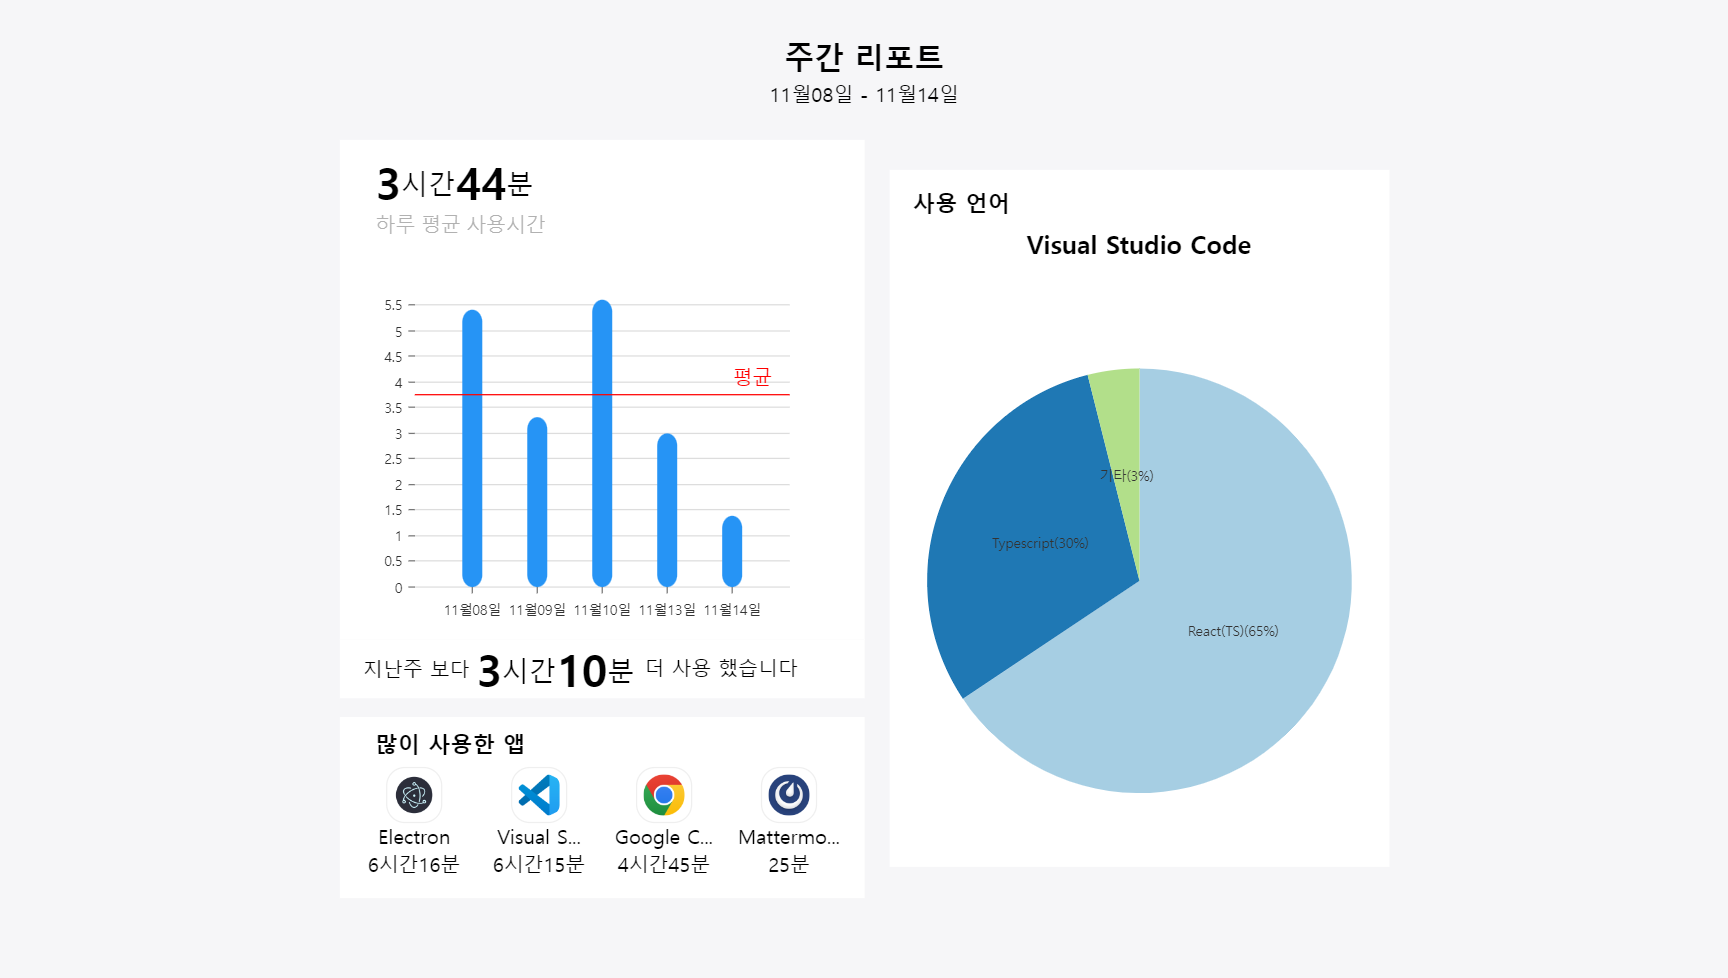
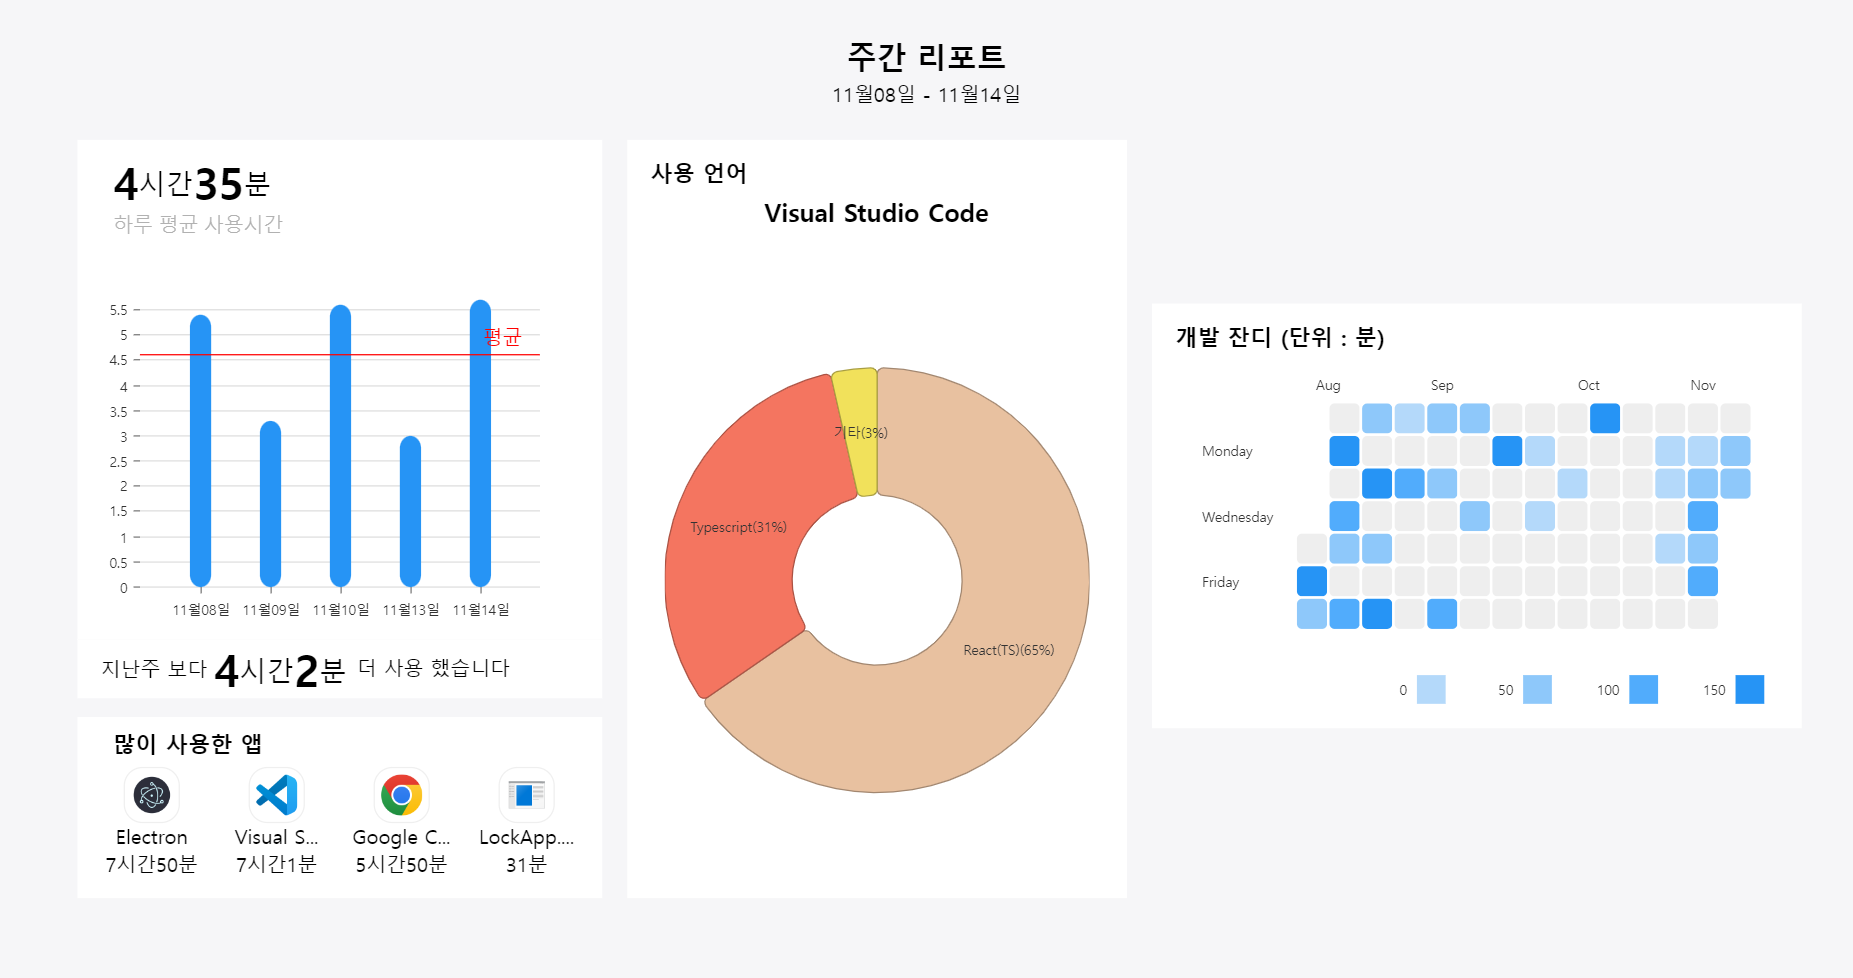
Feat : report
Former-commit-id: 218b25f972a8bf351b4d3708e82db2217bcbef42

diff --git a/electron/src/renderer/pages/CreatedChart.tsx b/electron/src/renderer/pages/CreatedChart.tsx
@@ -4,6 +4,7 @@ import { toPng } from 'html-to-image';
 import BarChart from '../components/jobtime/BarChart';
 import { ipcRenderer } from 'electron';
 import { ResponsiveBar } from '@nivo/bar';
+import { ResponsiveTimeRange } from '@nivo/calendar';
 import * as S from '../components/report/Report.style';
 import RecentApplication from '../components/jobtime/RecentApplication';
 import PieChart from '../components/jobtime/PieChart';
@@ -12,6 +13,16 @@ type Data = {
   day: number;
   time: number;
 };
+
+type DataOfDev = {
+  day: number;
+  active_time: number;
+};
+
+interface ModifiedData {
+  day: string;
+  value: number;
+}
 
 function CreatedChart() {
   const { state } = useLocation();
@@ -29,6 +40,33 @@ function CreatedChart() {
 
   const result: Array<Data> = state.weeklyJobs;
   const lastWeek: Array<Data> = state.lastWeekAvg;
+  const entireDevAmt: Array<DataOfDev> = state.entireDevAmt;
+
+  const modifiedData: ModifiedData[] = entireDevAmt.map((item) => {
+    const dateString = item.day.toString();
+    const formattedDate = `${dateString.slice(0, 4)}-${dateString.slice(
+      4,
+      6,
+    )}-${dateString.slice(6, 8)}`;
+
+    return {
+      day: formattedDate,
+      value: Math.floor(item.active_time / 60),
+    };
+  });
+
+  let from = new Date();
+  let to = new Date();
+  from.setDate(from.getDate() - 90);
+
+  from = `${from.getFullYear()}-${(from.getMonth() + 1)
+    .toString()
+    .padStart(2, '0')}-${from.getDate().toString().padStart(2, '0')}`;
+
+  to = `${to.getFullYear()}-${(to.getMonth() + 1)
+    .toString()
+    .padStart(2, '0')}-${to.getDate().toString().padStart(2, '0')}`;
+
   const lastAvg = lastWeek[0].time / 7;
 
   // let { day: highestDay, time: highestTime } = result.reduce(
@@ -102,7 +140,7 @@ function CreatedChart() {
               data={result}
               keys={['time']}
               indexBy="day"
-              margin={{ top: 50, right: 50, bottom: 100, left: 50 }}
+              margin={{ top: 50, right: 40, bottom: 100, left: 40 }}
               padding={0.7}
               valueScale={{ type: 'linear' }}
               indexScale={{ type: 'band', round: true }}
@@ -149,6 +187,35 @@ function CreatedChart() {
           ></PieChart>
         </S.MostDetailContainer>
 
+        <S.GrassContainer>
+          <S.MostLangTitle>개발 잔디 (단위 : 분)</S.MostLangTitle>
+          <ResponsiveTimeRange
+            dayRadius={5}
+            data={modifiedData}
+            from={from}
+            to={to}
+            emptyColor="#eeeeee"
+            colors={['#b4d9fa', '#8ec8fa', '#51acfc', '#2694f5']}
+            margin={{ top: 40, right: 40, bottom: 40, left: 40 }}
+            dayBorderWidth={2}
+            dayBorderColor="#ffffff"
+            legends={[
+              {
+                anchor: 'bottom-right',
+                direction: 'row',
+                justify: false,
+                itemCount: 4,
+                itemWidth: 59,
+                itemHeight: 50,
+                itemsSpacing: 26,
+                itemDirection: 'right-to-left',
+                translateX: -70,
+                translateY: -70,
+                symbolSize: 23,
+              },
+            ]}
+          />
+        </S.GrassContainer>
         {/* <S.MostDetailContainer>
           <S.MostLangTitle>카톡</S.MostLangTitle>
           <PieChart

diff --git a/electron/src/main/jobtime/subJobTimeDB.ts b/electron/src/main/jobtime/subJobTimeDB.ts
@@ -6,6 +6,7 @@ import { app } from 'electron';
 import { TSubActiveMap, TSubJobTime } from './jobTime.d';
 
 type TSubJob = Pick<TSubJobTime, 'sub_application' | 'active_time'>;
+type TSubJobAmt = Pick<TSubJobTime, 'day' | 'active_time'>;
 
 const sqlite3 = sqlite.verbose();
 
@@ -20,7 +21,8 @@ if (!fs.existsSync(DB_FILE)) {
 
 const TABLE_NAME = 'sub_job_time';
 const dateToNumber = (date: Date) => {
-  const numberDate = date.getFullYear() * 10000 + (date.getMonth() + 1) * 100 + date.getDate();
+  const numberDate =
+    date.getFullYear() * 10000 + (date.getMonth() + 1) * 100 + date.getDate();
   return numberDate;
 };
 
@@ -135,4 +137,26 @@ const getRecentWeek = (application: string): Promise<Array<TSubJob>> => {
   });
 };
 
-export { insertAll, getByDay, getRecentWeek };
+/**
+ * 6개월 간 개발 시간 (Visual Studio Code, IntelliJ IDEA)
+ * @returns { Promise<Array<TSubJobAmt>> }
+ */
+const getDevelopAmount = (): Promise<Array<TSubJob>> => {
+  const halfAgo = new Date();
+  halfAgo.setDate(halfAgo.getDate() - 180);
+  const target = dateToNumber(halfAgo);
+
+  return new Promise((resolve, reject) => {
+    return instance.all(
+      `SELECT day, sum(active_time) as active_time FROM ${TABLE_NAME} where day >= ${target} and (application = 'Visual Studio Code' or application = 'IntelliJ IDEA') group by day`,
+      (err, rows: Array<TSubJobAmt>) => {
+        if (err) {
+          return reject(err);
+        }
+        return resolve(rows);
+      },
+    );
+  });
+};
+
+export { insertAll, getByDay, getRecentWeek, getDevelopAmount };

diff --git a/electron/src/main/ipcMainHandler/jobTimeHandler.ts b/electron/src/main/ipcMainHandler/jobTimeHandler.ts
@@ -25,7 +25,7 @@ const registJobTimeHandler = () => {
     'job-time',
     async (
       _event,
-      type: 'day' | 'week' | 'dayOfWeek' | 'weekPerApplication' | 'lasyWeekAvg',
+      type: 'day' | 'week' | 'dayOfWeek' | 'weekPerApplication' | 'lastWeekAvg',
       target: Date,
     ) => {
       if (type === 'day') {
@@ -44,7 +44,7 @@ const registJobTimeHandler = () => {
         const result = await JobTimeDB.getRecentDayOfWeek();
         return result;
       }
-      if (type === 'lasyWeekAvg') {
+      if (type === 'lastWeekAvg') {
         const result = await JobTimeDB.getAvgTimeofLastWeek();
         return result;
       }
@@ -66,6 +66,10 @@ const subJobTimeHandler = () => {
       }
       if (type === 'weekly') {
         const result = await SubJobTimeDB.getRecentWeek(application);
+        return result;
+      }
+      if (type === 'entire') {
+        const result = await SubJobTimeDB.getDevelopAmount();
         return result;
       }
       return [];

diff --git a/electron/src/renderer/pages/CreateChart.tsx b/electron/src/renderer/pages/CreateChart.tsx
@@ -9,9 +9,16 @@ function CreateChart() {
   useEffect(() => {
     (async () => {
       const weeklyJobs = await ipcRenderer.invoke('job-time', 'dayOfWeek');
-      const lastWeekAvg = await ipcRenderer.invoke('job-time', 'lasyWeekAvg');
-      console.log(lastWeekAvg);
-      navigate('/createdchart', { state: { weeklyJobs, lastWeekAvg } });
+      const lastWeekAvg = await ipcRenderer.invoke('job-time', 'lastWeekAvg');
+      const entireDevAmt = await ipcRenderer.invoke('sub-job-time', {
+        application: null,
+        type: 'entire',
+        date: null,
+      });
+
+      navigate('/createdchart', {
+        state: { weeklyJobs, lastWeekAvg, entireDevAmt },
+      });
     })();
   }, []);
 

diff --git a/electron/src/main/jobtime/jobTimeDB.ts b/electron/src/main/jobtime/jobTimeDB.ts
@@ -169,7 +169,7 @@ const getRecentDayOfWeek = (): Promise<Array<TJob>> => {
 };
 
 /**
- * 최근 지난주 평균 사용시간
+ * 지난주 평균 사용시간
  * @returns { Array<Job> }
  */
 const getAvgTimeofLastWeek = (): Promise<Array<TJob>> => {
@@ -180,7 +180,6 @@ const getAvgTimeofLastWeek = (): Promise<Array<TJob>> => {
   end.setDate(weekAgo.getDate() - 6);
   const targetStart = dateToNumber(start);
   const targetEnd = dateToNumber(end);
-  console.log(targetStart, ' ,', targetEnd);
   return new Promise((resolve, reject) => {
     return instance.all(
       // substr('20231103', 5, 2) || '월' || substr('20231103', 7, 2) || '일'

diff --git a/electron/src/renderer/components/jobtime/PieChart.tsx b/electron/src/renderer/components/jobtime/PieChart.tsx
@@ -112,12 +112,15 @@ function PieChart({ application, day, type }: TPiechart) {
     <S.Wrapper>
       <S.Application>{application}</S.Application>
       <ResponsivePie
+        borderWidth={1}
+        cornerRadius={5}
         data={filtered}
-        colors={{ scheme: 'paired' }}
+        colors={{ scheme: 'nivo' }}
         tooltip={createToolTip}
         arcLabel={createArcLabel}
         valueFormat={getPercentage}
         enableArcLinkLabels={false}
+        innerRadius={0.4}
       />
     </S.Wrapper>
   );

diff --git a/electron/src/renderer/components/report/Report.style.ts b/electron/src/renderer/components/report/Report.style.ts
@@ -87,6 +87,13 @@ const Body = styled.div`
 const MostLangTitle = styled.h3`
   margin-left: 19px;
 `;
+
+const GrassContainer = styled.div`
+  width: 520px;
+  height: 340px;
+  background: white;
+  padding-top: 15px;
+`;
 export {
   BarHeader,
   Bolder,
@@ -101,4 +108,5 @@ export {
   MostLangTitle,
   LastWeekContainer,
   LastWeekHeader,
+  GrassContainer,
 };

diff --git a/electron/src/main/ipcMainHandler/mailHandler.ts b/electron/src/main/ipcMainHandler/mailHandler.ts
@@ -167,7 +167,7 @@ const addMailListener = (id: string, password: string, host: string) => {
 const reportTestHandler = () => {
   setTimeout(async () => {
     const chartWindow = new BrowserWindow({
-      width: 1400,
+      width: 1500,
       height: 800,
       show: true,
       transparent: false,
